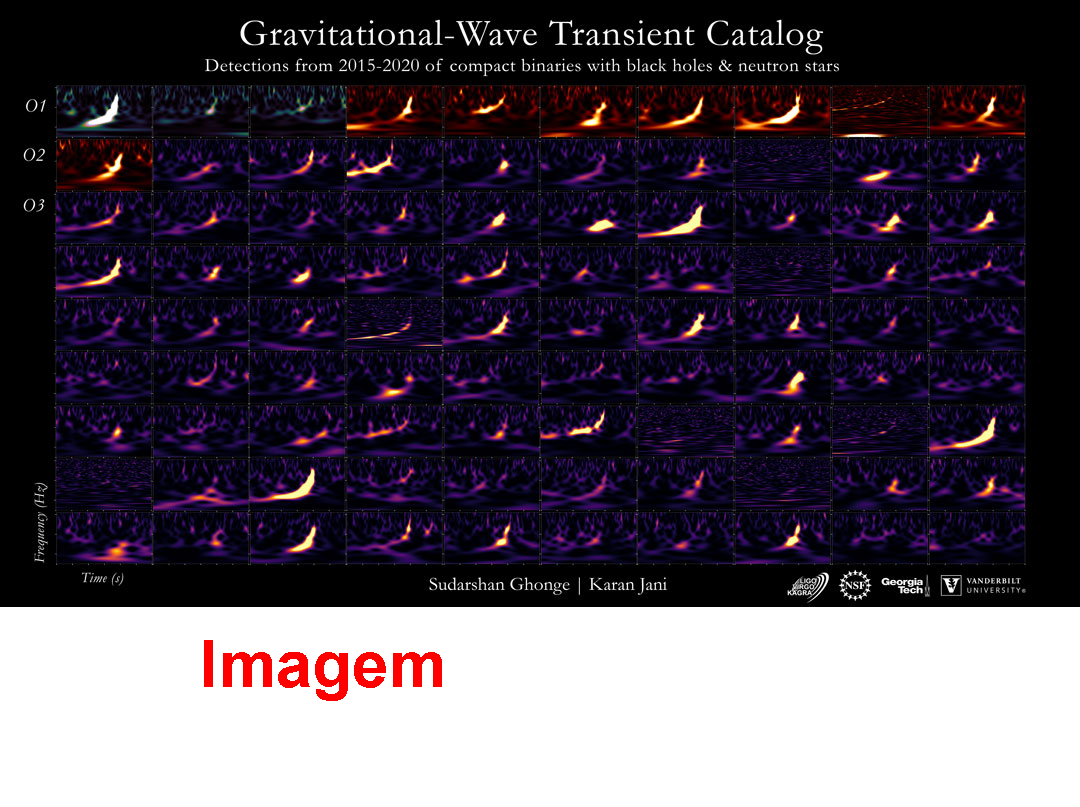
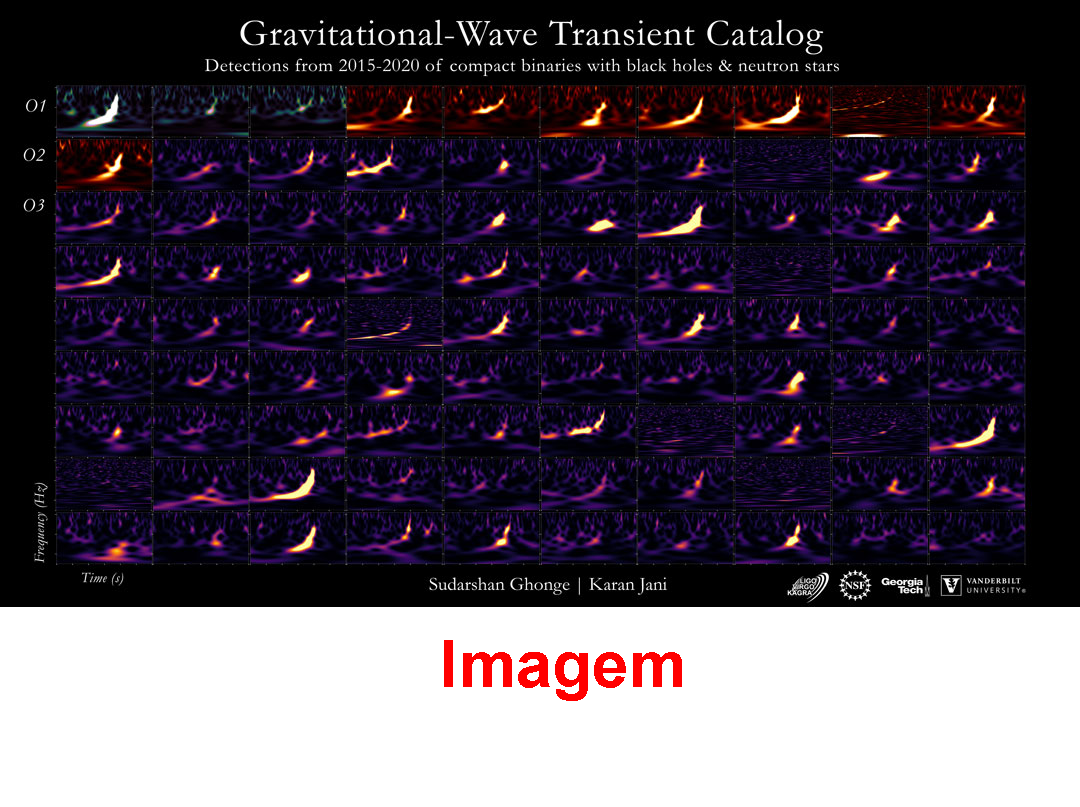
.

Changed region(s): [[0.1833, 0.7745, 0.6417, 0.8674]]

diff --git a/src/imdbApi.java b/src/imdbApi.java
@@ -11,12 +11,12 @@ public class imdbApi {
         //fazer a conexão HTTP e fazer a busca dos 250 filmes
 
         //String url = "https://api.mocki.io/v2/549a5d8b/NASA-APOD-JamesWebbSpaceTelescope";
-        String url = "https://api.nasa.gov/planetary/apod?api_key=DEMO_KEY&start_date=2021-12-03&end_date=2021-12-12";
-        extratorConteudo extrator = new extrratorConteudoNasa();
-        
         //String url = "https://mocki.io/v1/9a7c1ca9-29b4-4eb3-8306-1adb9d159060";
         //extratorConteudo extrator = new extratorConteudoIMDB();
         //String url = "https://imdb-api.com/en/API/Top250Movies/k_q6h6s0ro";
+
+        String url = "https://api.nasa.gov/planetary/apod?api_key=DEMO_KEY&start_date=2021-12-03&end_date=2021-12-12";
+        extratorConteudo extrator = new extrratorConteudoNasa();
 
         var http = new clienteHttp();
         String json = http.buscaDados(url);

diff --git a/src/geradoraDeFigurinhas.java b/src/geradoraDeFigurinhas.java
@@ -7,7 +7,6 @@ import java.io.InputStream;
 
 import javax.imageio.ImageIO;
 
-
 public class geradoraDeFigurinhas {
     
     void cria(InputStream inputStream, String nomeArquivo) throws Exception{
@@ -37,7 +36,7 @@ public class geradoraDeFigurinhas {
         grafics.setFont(font);
         
         //escrever uma frase na nova imagem
-        grafics.drawString("Imagem", 200, novaAltura - 120);
+        grafics.drawString("Imagem", largura/2-100, novaAltura - 120);
 
         //escrever a imagem em um arquivo
         ImageIO.write(novaImagem, "png", new File(nomeArquivo));
